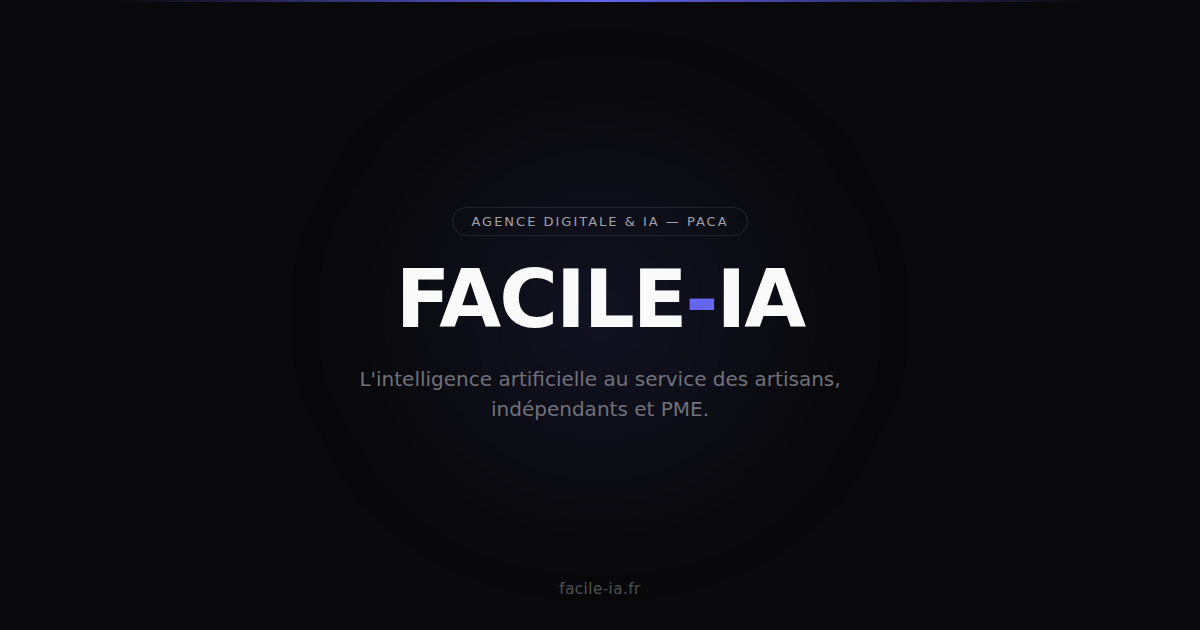
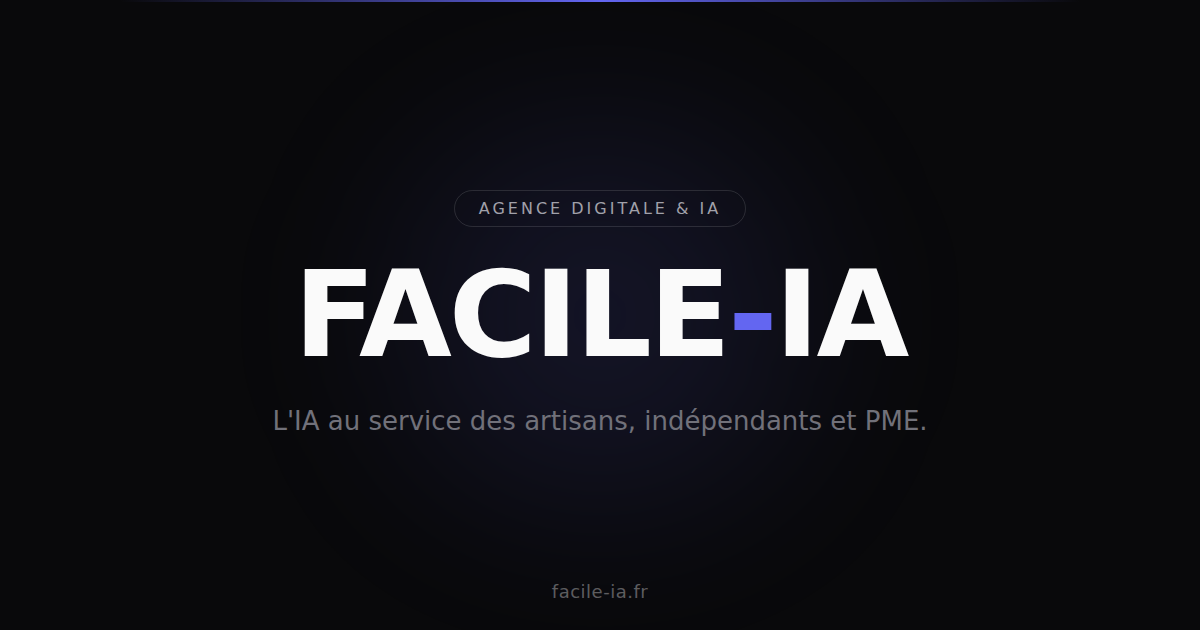
fix: mise à jour image OG + suppression "pas les ingénieurs" du texte

Changed region(s): [[0.2158, 0.4222, 0.7708, 0.6937], [0.37, 0.3016, 0.6167, 0.3619], [0.4625, 0.9048, 0.555, 0.9651]]

diff --git a/components/landing-temporaire.tsx b/components/landing-temporaire.tsx
@@ -137,7 +137,7 @@ export function LandingTemporaire() {
               {
                 icon: Sparkles,
                 title: "IA accessible",
-                desc: "Des outils d'intelligence artificielle pensés pour les pros, pas les ingénieurs. Simples, efficaces, abordables.",
+                desc: "Des outils d'intelligence artificielle pensés pour les pros. Simples, efficaces, abordables.",
               },
               {
                 icon: Users,
